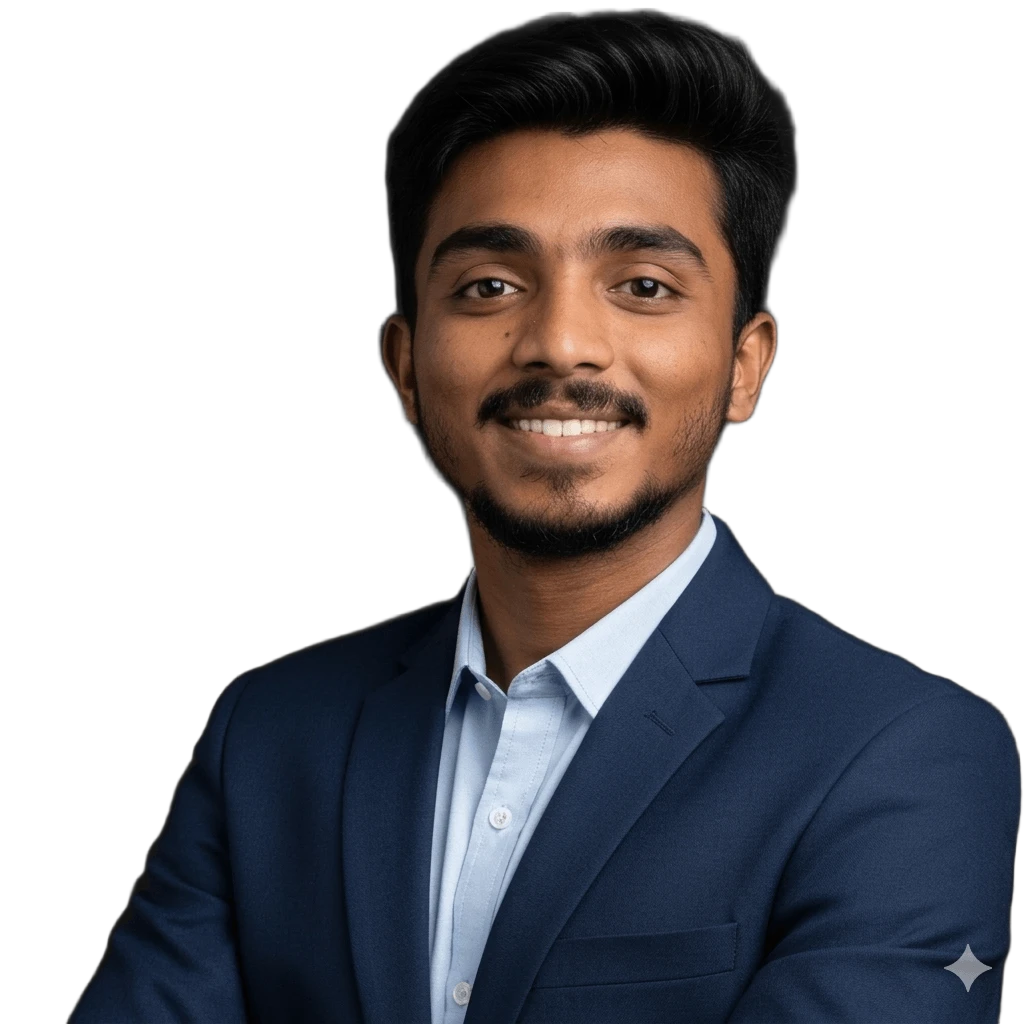
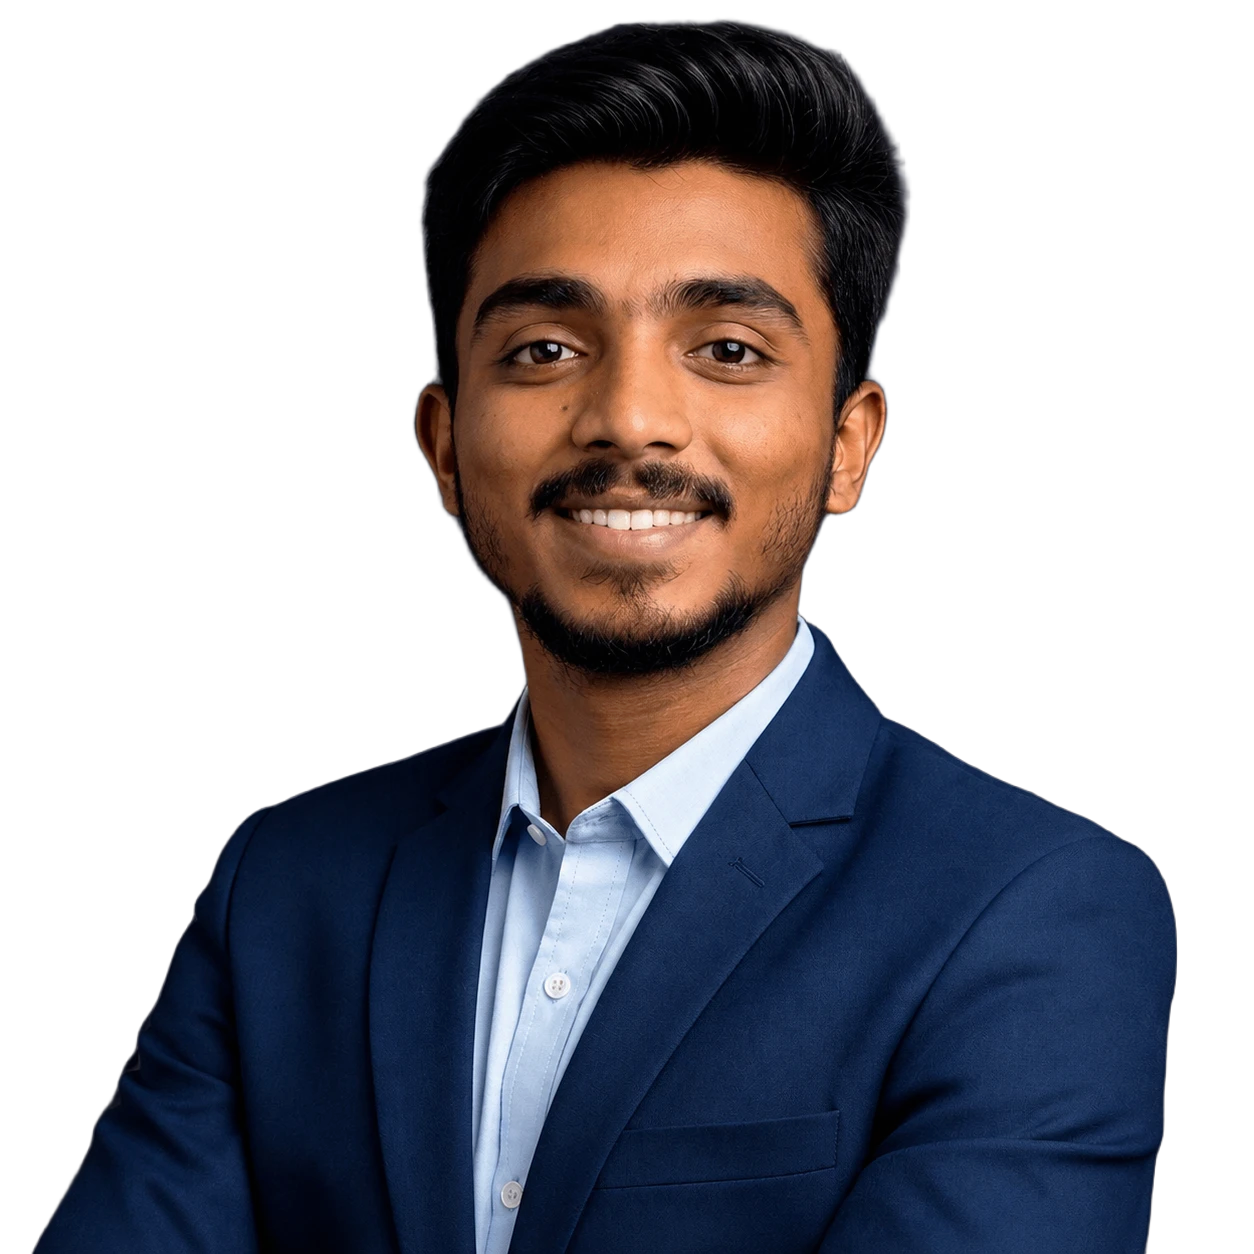
about sec done

diff --git a/src/components/banner/Banner.jsx b/src/components/banner/Banner.jsx
@@ -7,73 +7,74 @@ import { ImGithub, ImLinkedin } from "react-icons/im";
 
 const Banner = () => {
   return (
-    <section id="home" className="mt-5 mb-10 max-w-7xl w-full mx-auto px-5">
-      <div className="flex flex-col-reverse gap-y-15 lg:flex-row lg:justify-between lg:items-center">
-        <div>
-          <div className="flex flex-col-reverse lg:flex-row lg:items-center gap-10">
-            <div className="flex gap-5 lg:flex-col">
-              <Link href={"https://github.com/alfu-git"} target="_blank">
-                <Button className="w-13 h-13 glass-1 rounded-full hover:scale-110 transition-all duration-500">
-                  <ImGithub className="w-8 h-8" />
-                </Button>
-              </Link>
+    <section id="home" className="pt-12 pb-10 mb-10">
+      <div className="max-w-7xl w-full mx-auto px-5">
+        <div className="flex flex-col-reverse gap-y-15 lg:flex-row lg:justify-between lg:items-center">
+          <div>
+            <div className="flex flex-col-reverse lg:flex-row lg:items-center gap-10">
+              <div className="flex gap-5 lg:flex-col">
+                <Link href={"https://github.com/alfu-git"} target="_blank">
+                  <Button className="w-13 h-13 glass-1 rounded-full hover:scale-110 transition-all duration-500">
+                    <ImGithub className="w-8 h-8" />
+                  </Button>
+                </Link>
 
-              <Link
-                href={"https://www.linkedin.com/in/md-alfaz-dev7/"}
-                target="_blank"
-              >
-                <Button className="w-13 h-13 glass-1 rounded-full hover:scale-110 transition-all duration-500">
-                  <ImLinkedin className="w-8.5 h-8.5 rounded-full" />
-                </Button>
-              </Link>
+                <Link
+                  href={"https://www.linkedin.com/in/md-alfaz-dev7/"}
+                  target="_blank"
+                >
+                  <Button className="w-13 h-13 glass-1 rounded-full hover:scale-110 transition-all duration-500">
+                    <ImLinkedin className="w-8.5 h-8.5 rounded-full" />
+                  </Button>
+                </Link>
 
-              <Link href={"https://x.com/md_alfaz_dev"} target="_blank">
-                <Button className="w-13 h-13 glass-1 rounded-full hover:scale-110 transition-all duration-500">
-                  <FaXTwitter className="w-7 h-7" />
-                </Button>
-              </Link>
+                <Link href={"https://x.com/md_alfaz_dev"} target="_blank">
+                  <Button className="w-13 h-13 glass-1 rounded-full hover:scale-110 transition-all duration-500">
+                    <FaXTwitter className="w-7 h-7" />
+                  </Button>
+                </Link>
 
-              <Link
-                href={"https://www.facebook.com/m.a.faz.495430"}
-                target="_blank"
-              >
-                <Button className="w-13 h-13 glass-1 rounded-full hover:scale-110 transition-all duration-500">
-                  <FaFacebook className="w-8.5 h-8.5" />
-                </Button>
-              </Link>
-            </div>
-
-            <div>
-              <p className="px-3 py-1 max-w-fit text-[#00D4FF] bg-[#00D4FF]/5 backdrop-blur-md border border-[#00D4FF]/10 shadow-2xl rounded-full">
-                Welcome to my coding universe
-              </p>
-
-              <div className="my-5 sm:my-10">
-                <h1 className="text-6xl font-bold text-gradient leading-tight">
-                  Meet MD ALFAZ
-                </h1>
-
-                <p className="sm:mt-3 text-xl sm:text-2xl text-[#00D4FF] font-medium">
-                  An Aspiring Full-Stack Developer
-                </p>
+                <Link
+                  href={"https://www.facebook.com/m.a.faz.495430"}
+                  target="_blank"
+                >
+                  <Button className="w-13 h-13 glass-1 rounded-full hover:scale-110 transition-all duration-500">
+                    <FaFacebook className="w-8.5 h-8.5" />
+                  </Button>
+                </Link>
               </div>
 
-              <p className="max-w-120">
-                I build modern, scalable web applications with clean UI &
-                powerful backend.
-              </p>
+              <div>
+                <p className="px-3 py-1 max-w-fit text-[#00D4FF] bg-[#00D4FF]/5 backdrop-blur-md border border-[#00D4FF]/10 shadow-2xl rounded-full">
+                  Welcome to my coding universe
+                </p>
+
+                <div className="my-5 sm:my-10">
+                  <h1 className="text-6xl font-bold text-gradient leading-tight">
+                    Meet MD ALFAZ
+                  </h1>
+
+                  <p className="sm:mt-3 text-xl sm:text-2xl text-[#00D4FF] font-medium">
+                    An Passionate MERN-Stack
+                  </p>
+                </div>
+
+                <p className="text-lg max-w-120">
+                  I build modern, scalable web applications with clean UI &
+                  powerful backend.
+                </p>
+              </div>
             </div>
           </div>
-        </div>
 
-        <div>
-          <figure className="max-w-60 max-h-60 mx-auto sm:max-w-100 sm:max-h-100 p-2 glass-1 rounded-full flex items-center justify-center overflow-hidden">
+          <figure className="relative z-10 max-w-60 max-h-60 mx-auto sm:max-w-100 sm:max-h-100 p-2 glass-1 rounded-full flex items-center justify-center overflow-hidden">
+            <div className="absolute w-72 h-72 rounded-full bg-linear-to-r from-[#6366f1]/50 via-[#a855f7]/50 to-[#ec4899]/50 blur-3xl opacity-20 animate-pulse" />
             <Image
               src="/assets/alfaz.png"
-              alt="MD Alfaz Photo"
+              alt="MD Alfaz"
               width={500}
               height={400}
-              className="w-full h-full object-cover rounded-full"
+              className="w-full h-full object-cover rounded-full z-5"
             />
           </figure>
         </div>

diff --git a/src/components/about/AboutLeft.jsx b/src/components/about/AboutLeft.jsx
@@ -1,0 +1,72 @@
+"use client";
+
+import Image from "next/image";
+import { motion } from "framer-motion";
+import { FaReact } from "react-icons/fa";
+import { SiNextdotjs, SiMongodb, SiExpress } from "react-icons/si";
+
+const float = (duration = 3) => ({
+  animate: {
+    y: [0, -15, 0],
+    transition: {
+      duration,
+      repeat: Infinity,
+      ease: "easeInOut",
+    },
+  },
+});
+
+export default function AboutLeft() {
+  return (
+    <div className="relative flex justify-center items-center w-full">
+      {/* 🌈 Glow Background */}
+      <div className="absolute w-56 h-56 sm:w-72 sm:h-72 rounded-full bg-linear-to-r from-indigo-500 via-purple-500 to-pink-500 blur-3xl opacity-30 animate-pulse" />
+
+      {/* ⚡ Floating Icons */}
+      <motion.div
+        {...float(3)}
+        className="absolute -top-3 left-2 md:top-0 md:left-20 lg:-top-1 lg:left-5 text-cyan-400 text-3xl"
+      >
+        <FaReact />
+      </motion.div>
+
+      <motion.div
+        {...float(4)}
+        className="absolute -bottom-6 left-2 md:bottom-0 md:left-20 lg:-bottom-6 lg:left-5 text-black text-xl"
+      >
+        <span className="p-1.5 flex justify-center items-center rounded-full bg-white">
+          <SiExpress />
+        </span>
+      </motion.div>
+
+      <motion.div
+        {...float(5)}
+        className="absolute -top-3 right-2 md:top-0 md:right-20 lg:-top-1 lg:right-5 text-black text-3xl"
+      >
+        <span className="inline-flex w-fit h-fit bg-white rounded-full">
+          <SiNextdotjs />
+        </span>
+      </motion.div>
+
+      <motion.div
+        {...float(3.5)}
+        className="absolute -bottom-5 right-2 md:bottom-0 md:right-20 lg:-bottom-5 lg:right-6 text-green-500 text-3xl"
+      >
+        <SiMongodb />
+      </motion.div>
+
+      {/* 🧑 Avatar */}
+      <div className="relative z-10">
+        <div className="max-w-60 max-h-60 mx-auto sm:max-w-100 sm:max-h-100 p-2 glass-1 rounded-full flex items-center justify-center overflow-hidden">
+          <Image
+            src="/assets/alfaz.png"
+            alt="Alfaz"
+            width={300}
+            height={300}
+            className="w-full h-full object-cover rounded-full"
+          />
+        </div>
+      </div>
+    </div>
+  );
+}

diff --git a/src/components/about/About.jsx b/src/components/about/About.jsx
@@ -1,0 +1,58 @@
+import React from "react";
+import AboutLeft from "./AboutLeft";
+
+const About = () => {
+  return (
+    <section id="about" className="my-30 max-w-7xl w-full mx-auto px-5">
+      <div>
+        <div>
+          <h2 className="mb-15 sm:mb-25 lg:mb-20 text-5xl text-gradient font-bold text-center">
+            About Me
+          </h2>
+
+          <div className="flex flex-col lg:flex-row lg:justify-between items-center gap-y-15 sm:gap-y-20 lg:gap-15">
+            <div className="w-2/3">
+              <AboutLeft />
+            </div>
+
+            <div className="p-3 glass-1 rounded-xl text-lg">
+              <div className="space-y-4">
+                <p>
+                  I&apos;m currently a first-year Chemistry student and an
+                  passionate{" "}
+                  <strong className="text-[#00D4FF]">
+                    MERN-Stack Wev Developer
+                  </strong>{" "}
+                  focused on building modern, scalable web applications with
+                  clean UI and powerful backend systems.
+                </p>
+
+                <p>
+                  When I&apos;m not building things, I&apos;m exploring new
+                  technologies, contributing to open source, or sharpening my
+                  problem-solving skills.
+                </p>
+
+                <p>
+                  I believe in shipping work over perfection and improving
+                  through real experience. Outside coding, I stay disciplined
+                  with football and gym, which keeps me balanced and focused.
+                </p>
+
+                <p>
+                  My long-term vision is to{" "}
+                  <strong className="text-[#00D4FF]">
+                    master AI and build intelligent web applications
+                  </strong>
+                  .
+                </p>
+              </div>
+            </div>
+          </div>
+        </div>
+      </div>
+    </section>
+  );
+};
+
+export default About;

diff --git a/src/components/navbar/Navbar.jsx b/src/components/navbar/Navbar.jsx
@@ -8,8 +8,6 @@ const Navbar = () => {
   const [activeSection, setActiveSection] = useState("home");
 
   useEffect(() => {
-    const sections = document.querySelectorAll("section");
-
     const observer = new IntersectionObserver(
       (entries) => {
         entries.forEach((entry) => {
@@ -19,10 +17,12 @@ const Navbar = () => {
         });
       },
       {
-        threshold: 0.6,
+        rootMargin: "-40% 0px -55% 0px", // ← triggers when section crosses the middle band
+        threshold: 0,                     // ← fires as soon as even 1px enters the band
       },
     );
 
+    const sections = document.querySelectorAll("section[id]"); // ← only sections WITH an id
     sections.forEach((section) => observer.observe(section));
 
     return () => observer.disconnect();
@@ -79,7 +79,7 @@ const Navbar = () => {
   );
 
   return (
-    <nav id="home" className="mt-5 mb-7 sticky top-0 z-40 w-full">
+    <nav className="pt-5 sticky top-0 z-40 w-full">
       <header className="max-w-7xl mx-auto px-5">
         <section className="flex items-center justify-between">
           <div className="flex items-center gap-2">

diff --git a/src/app/page.js b/src/app/page.js
@@ -1,9 +1,13 @@
+import About from "@/components/about/About";
 import Banner from "@/components/banner/Banner";
 import Navbar from "@/components/navbar/Navbar";
 
 export default function Home() {
-  return <>
-  <Navbar />
-  <Banner />
-  </>;
+  return (
+    <>
+      <Navbar />
+      <Banner />
+      <About />
+    </>
+  );
 }

diff --git a/src/app/globals.css b/src/app/globals.css
@@ -19,6 +19,10 @@ a {
   h6 {
     font-family: var(--font-orbitron);
   }
+
+  html {
+    scroll-behavior: smooth;
+  }
 }
 
 @layer utilities {
